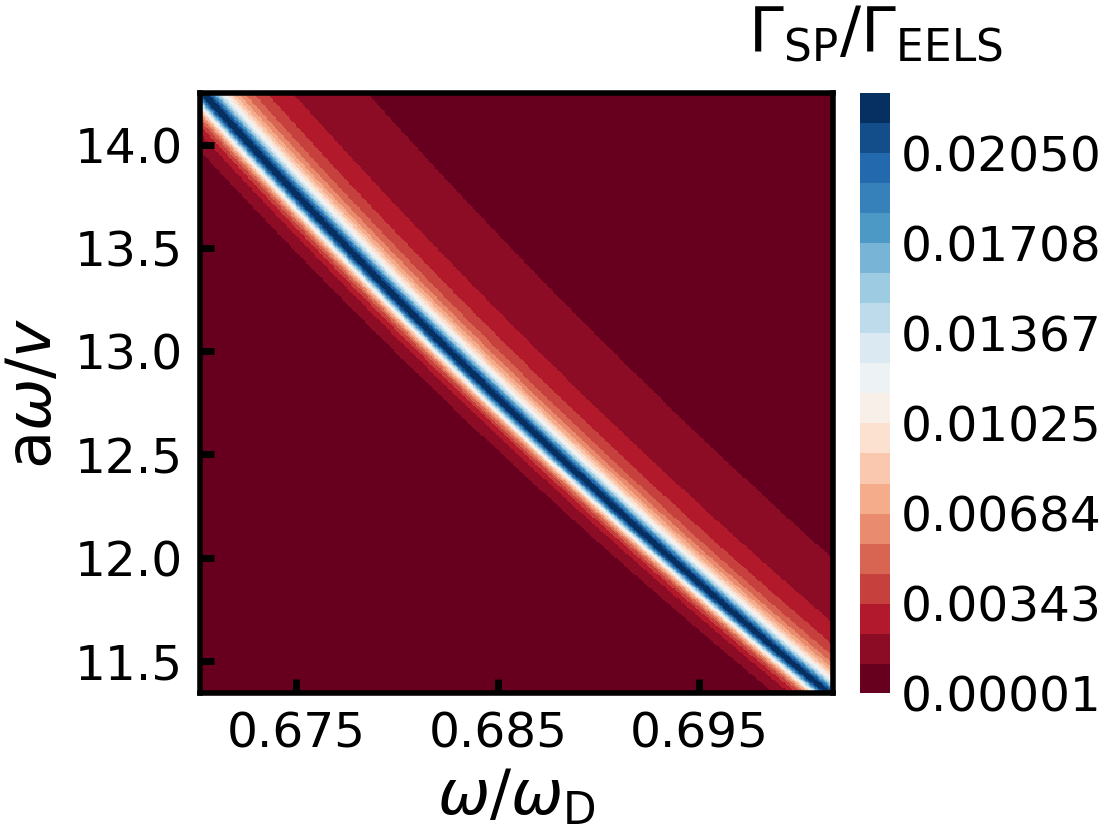
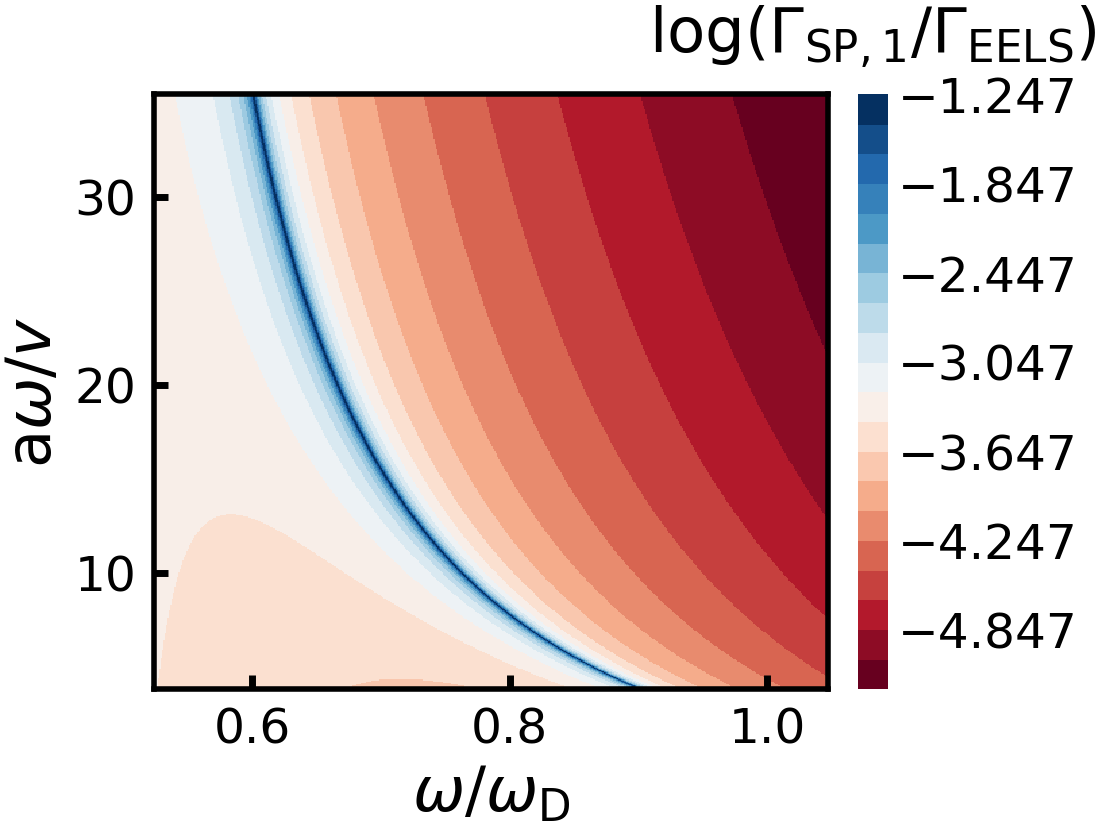
update from icfo dell

diff --git a/graphene/infinite_dipoles/plot_decay_rate_theta_n_opt_zp_fix_zp_3D.py b/graphene/infinite_dipoles/plot_decay_rate_theta_n_opt_zp_fix_zp_3D.py
@@ -30,9 +30,10 @@ if not os.path.exists(path_save):
 err = 'decay_rate_theta_n.py no se encuentra en ' + path_basic
 try:
     sys.path.insert(1, path_basic)
-    from decay_rate_theta_n import decay_rate_theta_inf_dipoles_ana_res_div_gamma0_v4
+    from decay_rate_theta_n import decay_rate_theta_inf_dipoles_ana_res_div_gamma0_v2, decay_rate_theta_inf_dipoles_ana_res_div_gamma0
 except ModuleNotFoundError:
     print(err)
+
 
 
 try:
@@ -60,7 +61,7 @@ int_v = 10
 
 Nmax = 1
 
-labelz = r'$\Gamma_{\text{SP}, n}/\Gamma_{\rm EELS}$'
+labelz = r'log($\Gamma_{{\rm SP},%i}/\Gamma_{\rm EELS}$)' %(Nmax)
 
 tabla = np.loadtxt('zp_optimum_for_decay_rate_graphene_resonance_b-10nm.txt', delimiter='\t', skiprows=1)
 tabla = np.transpose(tabla)
@@ -104,9 +105,9 @@ elif Nmax == 1:
     list_EmeV = np.linspace(30,100,N)
     list_EmeV = np.linspace(48,76,N)
 
-    list_EmeV = np.linspace(64,67,N)
+    list_EmeV = np.linspace(50,100,N)
     list_a_micros = np.array(np.linspace(3000,10500,N))*1e-3
-    list_a_micros = np.array(np.linspace(3500,4200,N))*1e-3
+    list_a_micros = np.array(np.linspace(1500,7000,N))*1e-3
 
 #    list_EmeV = listx
 elif Nmax == 0:
@@ -129,10 +130,10 @@ def function_real_ana(energy0_meV,a_micros):
     a = a_micros
     zp = zp_nano*1e-3
          
-    rta = decay_rate_theta_inf_dipoles_ana_res_div_gamma0_v4(omegac0,epsi1,epsi2,hbmu,hbgama,int_v,zp,a,b,Nmax)
+    rta = decay_rate_theta_inf_dipoles_ana_res_div_gamma0(omegac0,epsi1,epsi2,hbmu,hbgama,int_v,zp,a,b,Nmax)
 
     print(rta)
-    return np.real(rta )
+    return np.real(np.log10(rta) )
 
 #%%
 
@@ -230,7 +231,7 @@ cbar = plt.colorbar(im, fraction=0.046, pad=0.04, orientation = 'vertical')
 
 #ax2 = fig.add_axes([0.95, 0.1, 0.03, 0.8])
 #cb = plt.colorbar.ColorbarBase(ax2, cmap=cmap, norm=norm, spacing='proportional', ticks=bounds, boundaries=bounds, format='%1i')
-plt.xticks(ticks_x)
+#plt.xticks(ticks_x)
 cbar.ax.tick_params(labelsize = tamnum, width=0.5, length = 0,pad = 1.5)
 
 #plt.plot(list_omega_omegaD_lim,listy_2,'-',color = 'blue')

diff --git a/graphene/infinite_dipoles/plot_theta_ang_3D.py b/graphene/infinite_dipoles/plot_theta_ang_3D.py
@@ -174,11 +174,12 @@ elif Nmax == 1:
     list_a_micros = np.array(np.linspace(3000,10500,N2))*1e-3
     list_a_micros = np.array(np.linspace(3500,5000,N2))*1e-3
 
-#
-#    list_EmeV = np.linspace(40,76,N2)
-#    list_a_micros = np.array(np.linspace(2000,10500,N2))*1e-3
 
-#    list_EmeV = listx
+
+    list_EmeV = np.linspace(50,100,N2)
+    list_a_micros = np.array(np.linspace(3000,10500,N2))*1e-3
+    list_a_micros = np.array(np.linspace(1500,7000,N2))*1e-3
+
 elif Nmax == 0:
     list_EmeV = np.linspace(30,50,N2)
     list_EmeV = listx
@@ -288,7 +289,7 @@ for tt in ticks:
 
 n_color = 21
 # define the bins and normalize
-bounds = np.linspace(np.min(Z_num), np.max(Z_num), n_color)
+bounds = np.linspace(np.min(Z_num)*0.96, np.max(Z_num)*0.98, n_color)
 
 norm = mpl.colors.BoundaryNorm(bounds, cmap.N)
 

diff --git a/hBn-disks-v2/infinite_dipoles/plot_decay_rate_theta_n_opt_zp_fix_zp.py b/hBn-disks-v2/infinite_dipoles/plot_decay_rate_theta_n_opt_zp_fix_zp.py
@@ -30,7 +30,7 @@ if not os.path.exists(path_save):
 err = 'decay_rate_theta_n.py no se encuentra en ' + path_basic
 try:
     sys.path.insert(1, path_basic)
-    from decay_rate_theta_n import decay_rate_theta_inf_dipoles_ana_res,decay_rate_theta_inf_dipoles_ana_res_div_gamma0_v3
+    from decay_rate_theta_n_res import decay_rate_theta_inf_dipoles_ana_res,decay_rate_theta_inf_dipoles_ana_res_div_gamma0_v3
 except ModuleNotFoundError:
     print(err)
 
